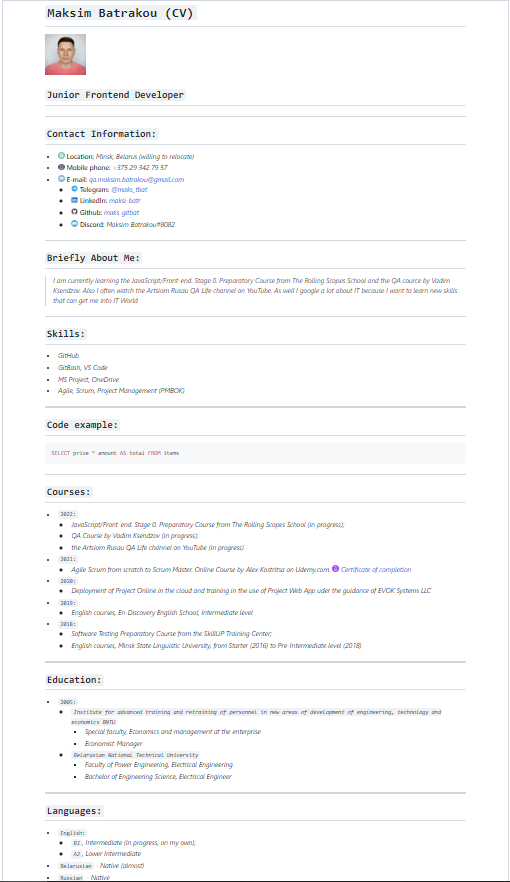
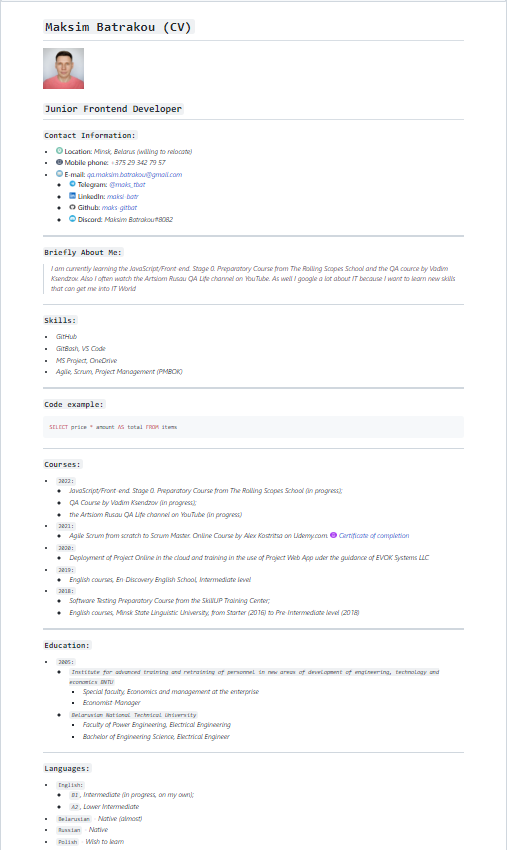
fix: change photo in cv

Changed region(s): [[0.0592, 0.0, 0.9172, 1.0], [0.9763, 0.0, 1.0, 1.0], [0.0, 0.0, 0.0296, 1.0]]

diff --git a/cv.md b/cv.md
@@ -1,6 +1,6 @@
 # **`Maksim Batrakou (CV)`**
 
-![My photo](/images/my-photo-avatar-100x100.jpg "avatar")
+![My_photo](/images/avatar-100x100.jpg)
 
 ## **`Junior Frontend Developer`**
 
